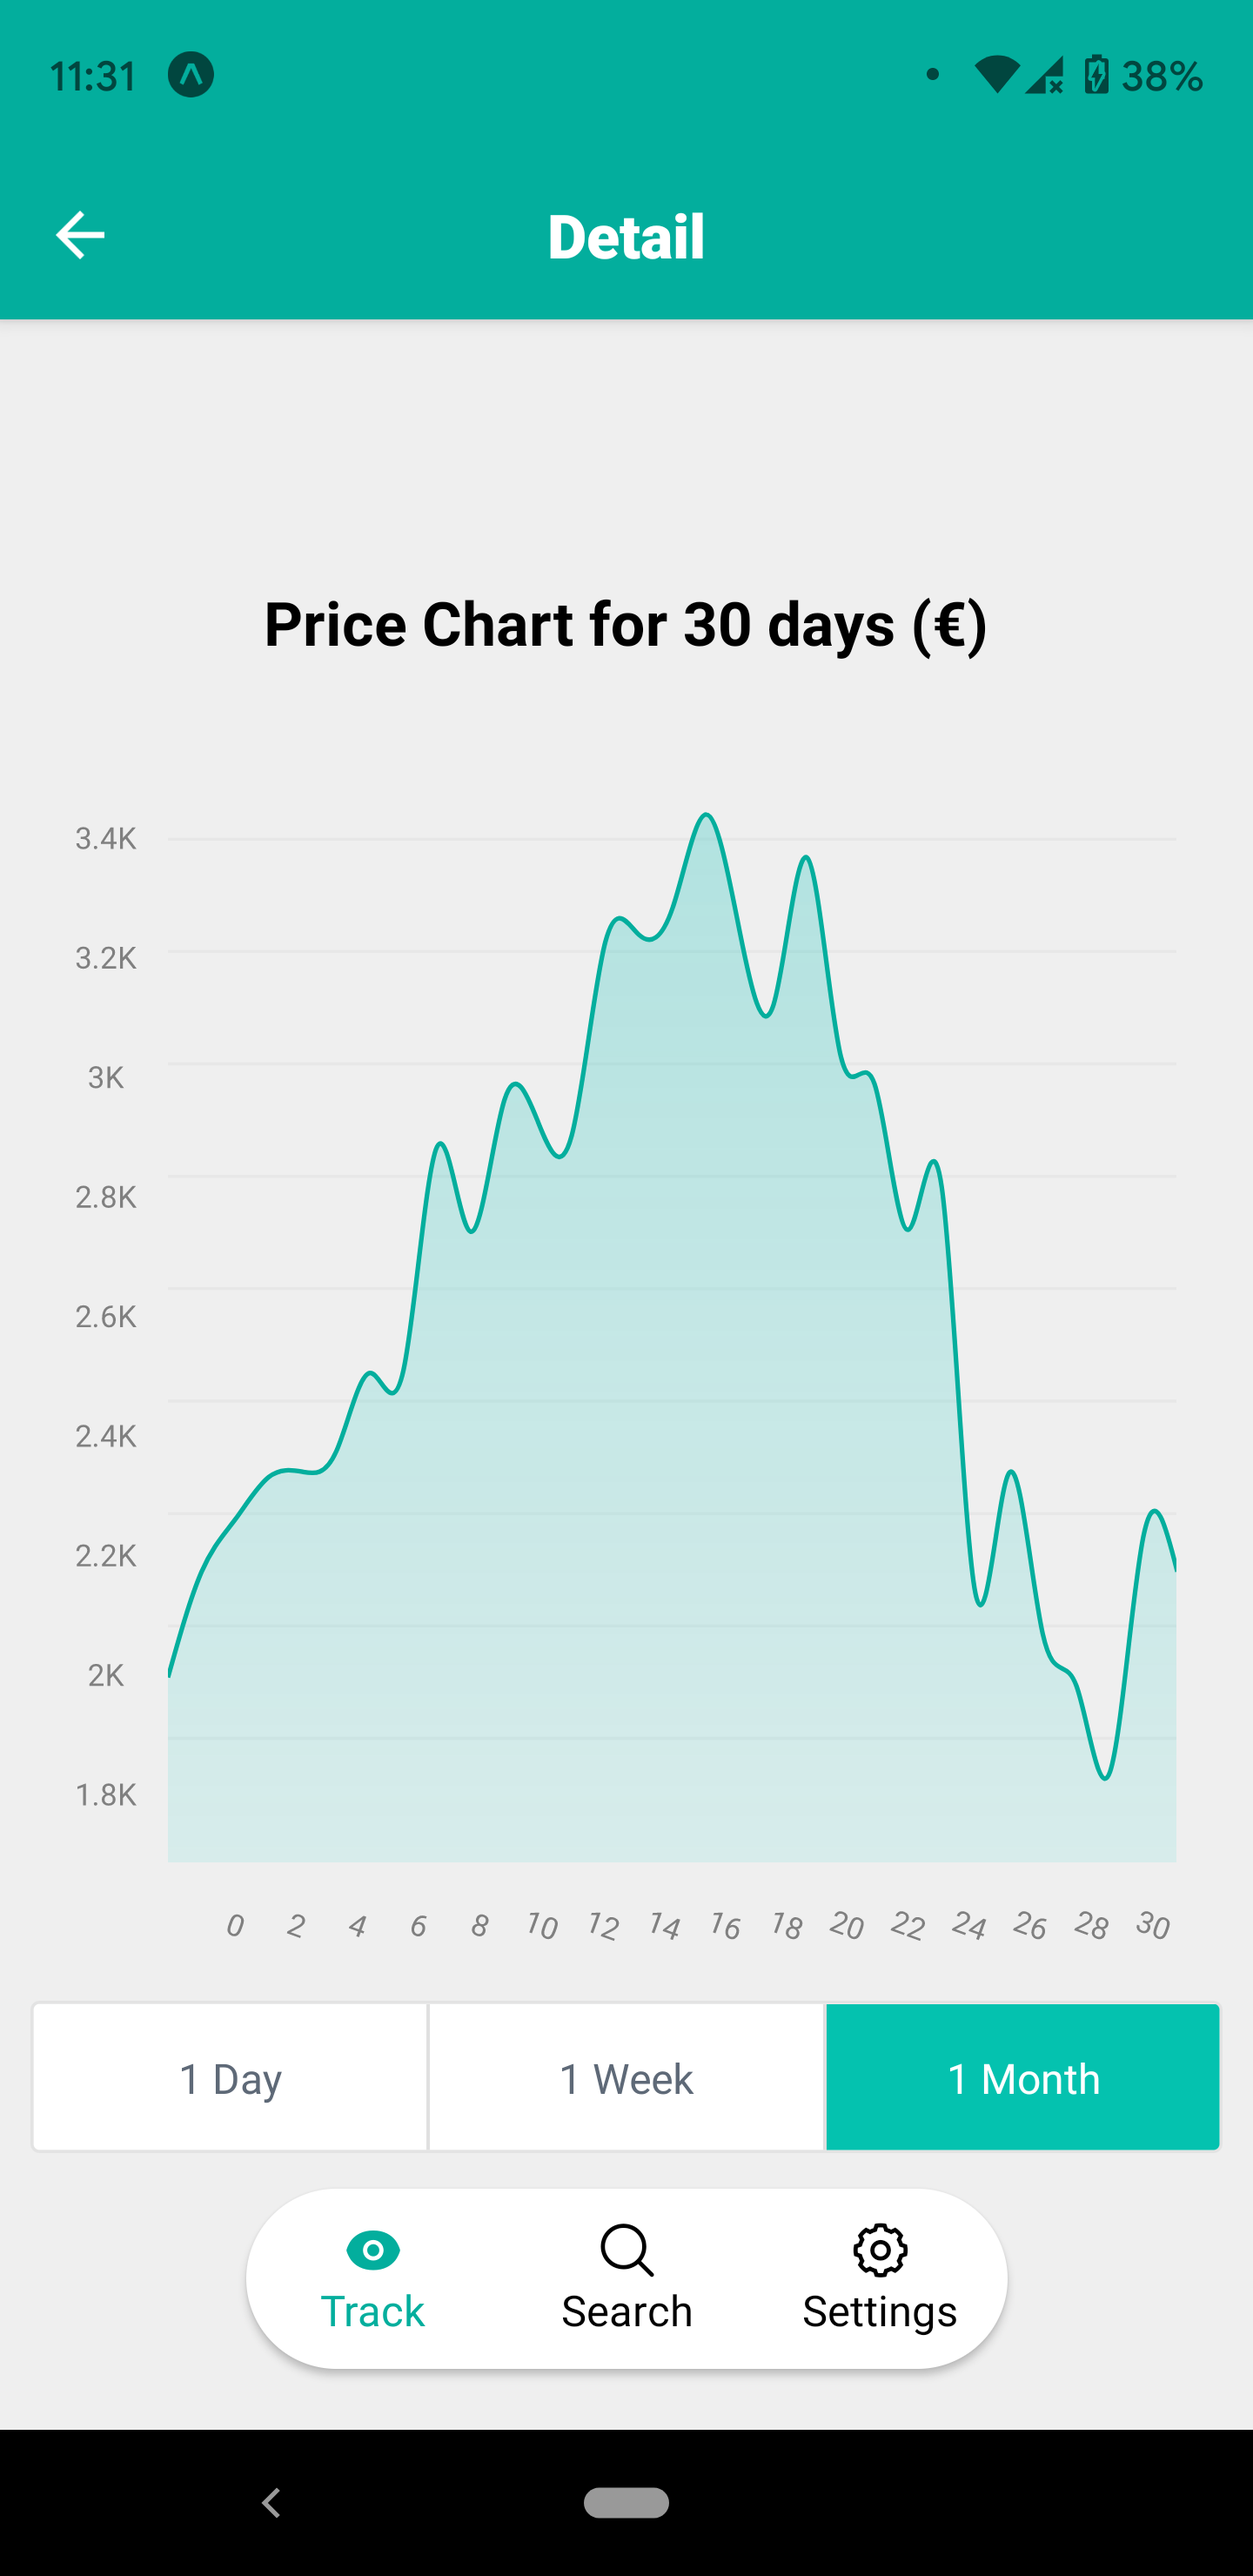
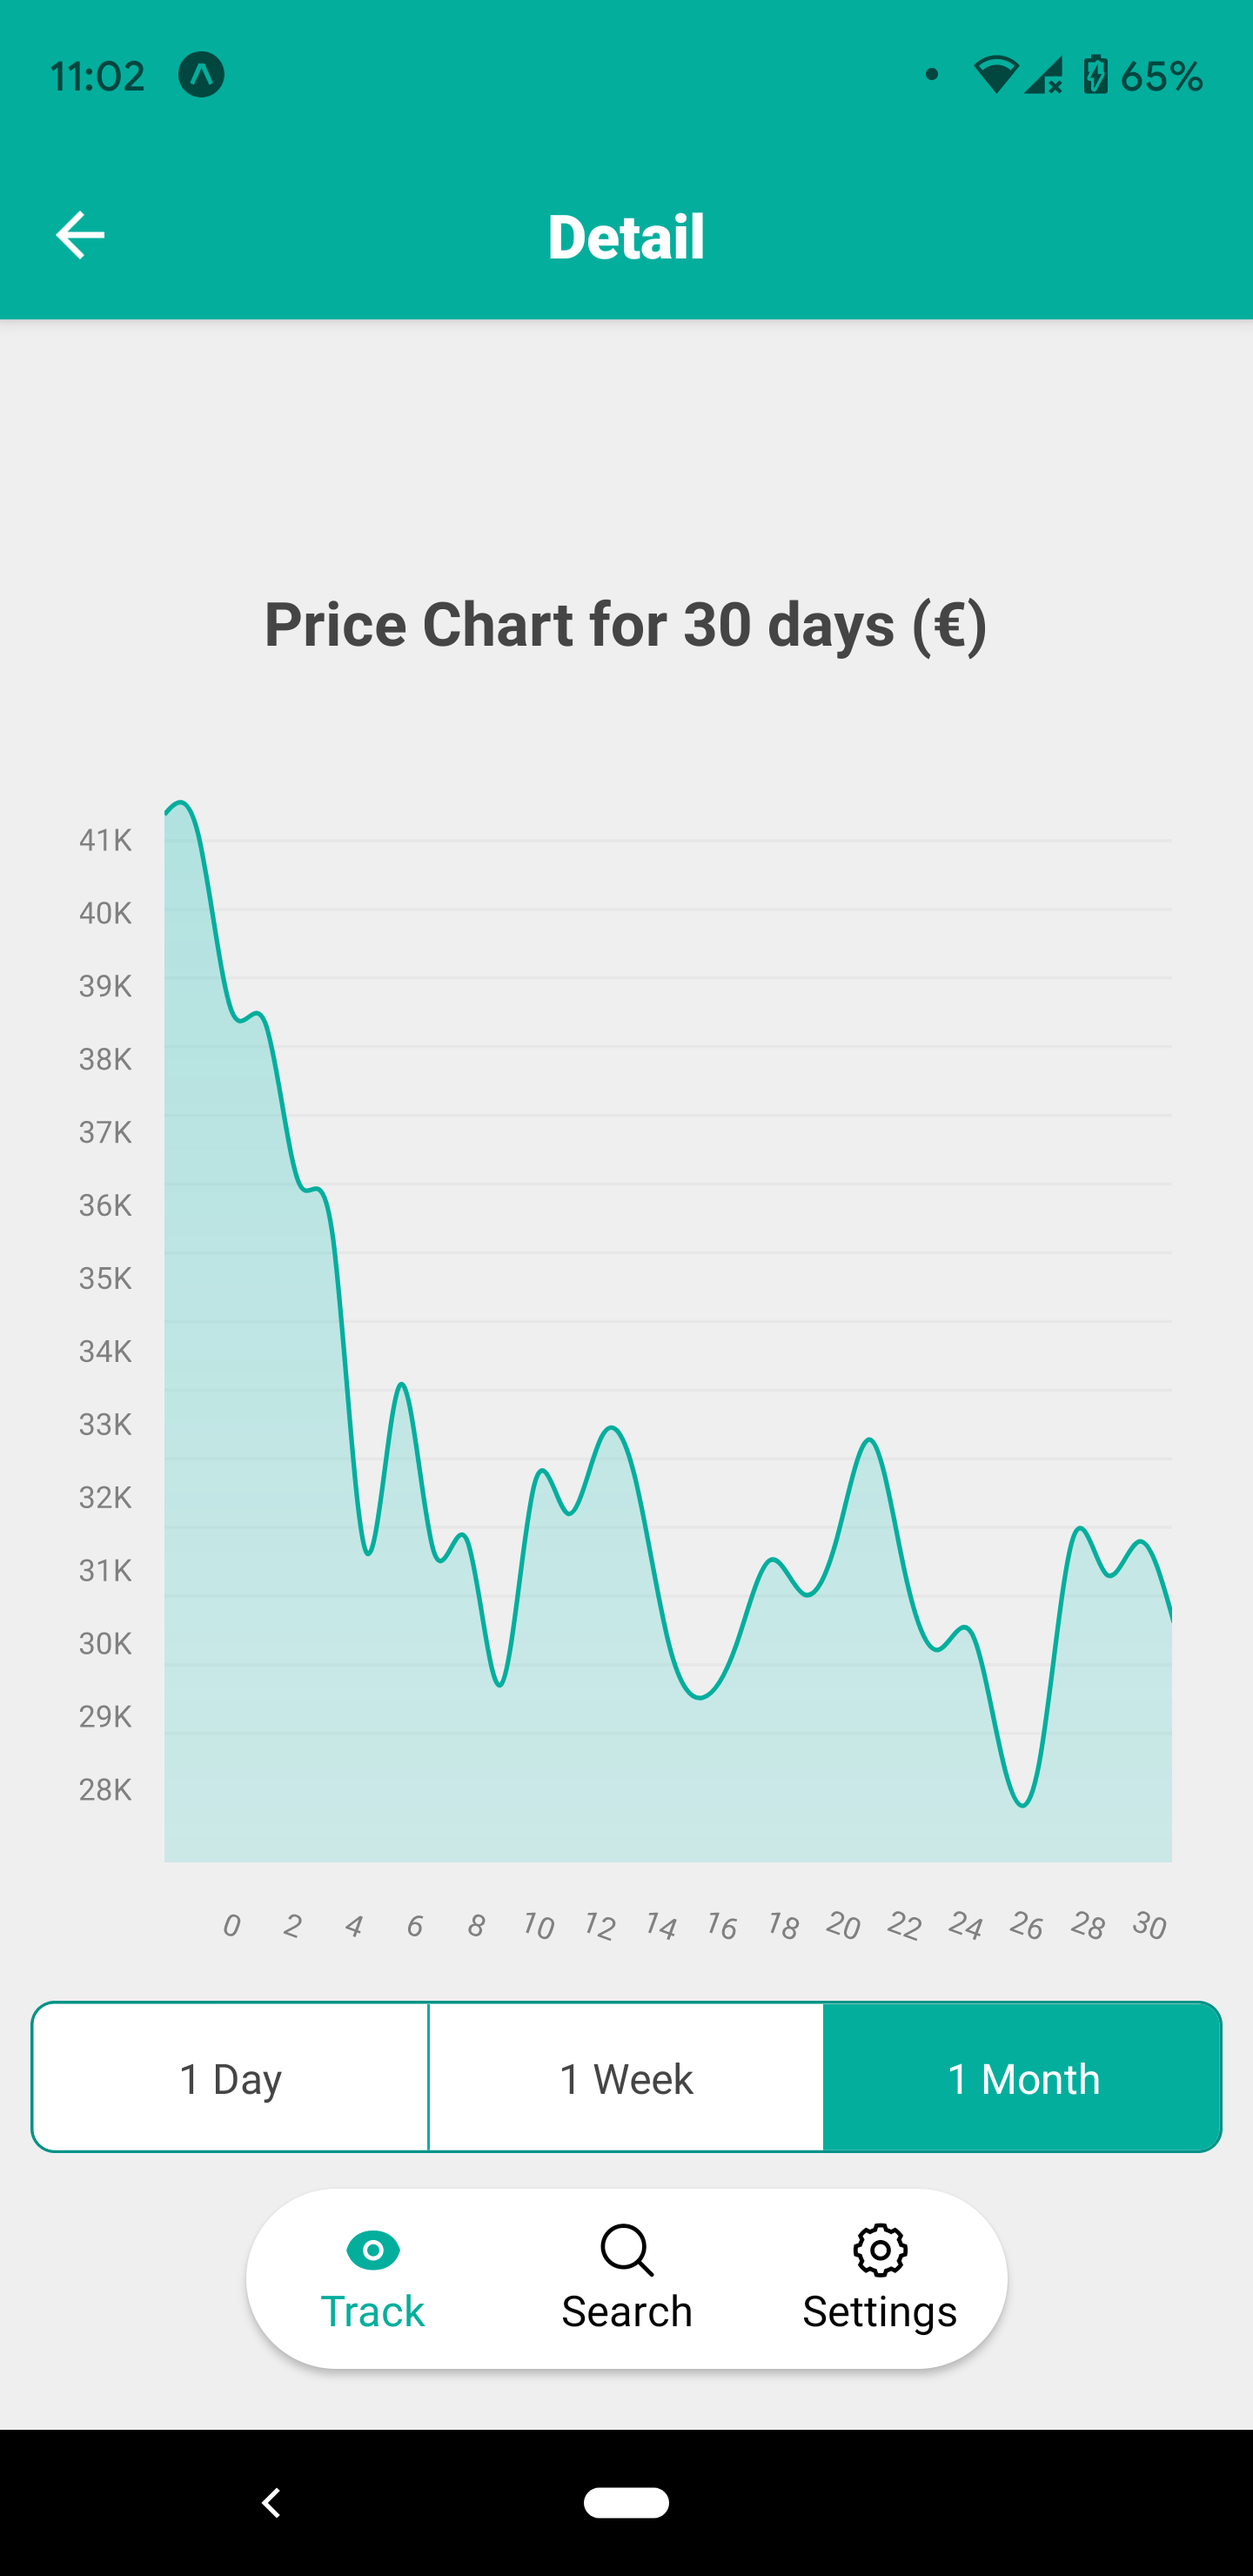
:sparkles: Styling button group

diff --git a/src/components/CryptoDetail.js b/src/components/CryptoDetail.js
@@ -1,6 +1,6 @@
-import React, { useState, useEffect } from 'react';
+import React, { useState } from 'react';
 import PropTypes from 'prop-types';
-import { View, Text, StyleSheet } from 'react-native';
+import { View, Text, StyleSheet, TouchableHighlight } from 'react-native';
 import { ButtonGroup } from 'react-native-elements';
 import Area from './Area';
 import { useTheme } from '@react-navigation/native';
@@ -26,7 +26,7 @@ const CryptoDetail = ({ route }) => {
 
   return (
     <View style={[styles.container, { backgroundColor: colors.surface }]}>
-      <Text style={styles.text}>
+      <Text style={[styles.text, { color: colors.secondary }]}>
         {`Price Chart for ${period(selected)}`} (&euro;)
       </Text>
       <Area coinId={itemId} selectedIndex={selected} />
@@ -34,9 +34,16 @@ const CryptoDetail = ({ route }) => {
         buttons={buttons}
         onPress={setSelected}
         selectedIndex={selected}
-        selectedButtonStyle={{ backgroundColor: '#04c2af' }}
-        containerStyle={{ height: 50 }}
-        innerBorderStyle={{ width: 1, color: '#e0e0e0' }}
+        Component={TouchableHighlight}
+        underlayColor='#919191'
+        buttonStyle={{ backgroundColor: colors.background }}
+        textStyle={{ color: colors.secondary }}
+        selectedButtonStyle={{ backgroundColor: '#03AE9D' }}
+        containerStyle={[
+          styles.buttonContainer,
+          { borderColor: colors.success, borderWidth: 1 },
+        ]}
+        innerBorderStyle={{ width: 1, color: colors.accent }}
       />
     </View>
   );
@@ -49,6 +56,10 @@ CryptoDetail.propTypes = {
 export default CryptoDetail;
 
 const styles = StyleSheet.create({
+  buttonContainer: {
+    height: 50,
+    borderRadius: 8,
+  },
   container: {
     flex: 1,
     alignItems: 'center',

diff --git a/src/themes/themeProvider.js b/src/themes/themeProvider.js
@@ -16,6 +16,7 @@ export const CustomDefaultTheme = {
     ...PaperDefaultTheme.colors,
     background: '#ffffff',
     text: '#333333',
+    secondary: '#454545',
     danger: '#fb2c33',
     accent: '#03AE9D',
     surface: '#efefef',
@@ -31,9 +32,10 @@ export const CustomDarkTheme = {
     ...PaperDarkTheme.colors,
     background: '#333333',
     text: '#f5f6f7',
+    secondary: '#e3e3e3',
     danger: '#ff6363',
     accent: '#5bf5e5',
-    surface: '#333333',
+    surface: '#252525',
     success: '#52e3d4',
   },
 };

diff --git a/README.md b/README.md
@@ -39,9 +39,9 @@ A Crypto Tracker App inspired by SpiralDev's [**CryptoTracker**](https://github.
 
 ### Dark Theme
 
-| Splash Screen  | Sign In | Sign Up |
+| Splash Screen  | Sign In | Detail Screen |
 | :-: | :-: | :-: |
-| ![Splash Screen](./src/assets/screenshot/d_splash.png) | ![Sign In](./src/assets/screenshot/d_login.png)  |  ![Sign Up](./src/assets/screenshot/d_signup.png) |
+| ![Splash Screen](./src/assets/screenshot/d_splash.png) | ![Sign In](./src/assets/screenshot/d_login.png)  |  ![Detail Screen](./src/assets/screenshot/d_detail.png) |
 
 ### Loading Environment Variables
 
